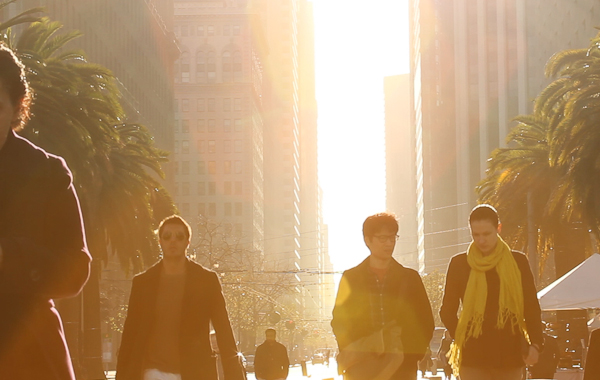
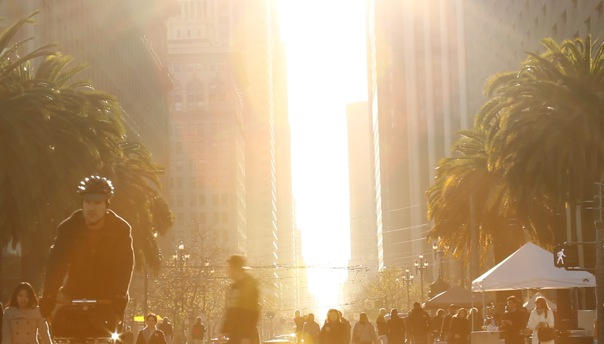
update copy and layout for about us

diff --git a/app/assets/stylesheets/about.css.scss b/app/assets/stylesheets/about.css.scss
@@ -1,19 +1,35 @@
 /* ABOUT */
 
 
+.about-intro {
+
+	h1 {
+		max-width: 720px;
+		text-shadow: 0 0 40px rgba(0, 0, 0, 0.15);
+	}
+
+	div {
+		@include span-columns(3.375);
+
+		p {
+			margin-top: 3rem;
+		}
+	}
+}
+
 .about .main-intro {
 	padding: 0 30px;
-	@include span-columns(8);
+	@include span-columns(7.5);
 
-	p {
-
+	h2 {
+		margin-top: 60px;
 	}
 }
 
 .aside .connect {
 	@include row();
 	border-left: 2px solid $highlight;
-	margin-top: 1.6rem;
+	margin-top: 3.8rem;
 
 	strong {
 		font-weight: normal;
@@ -44,8 +60,8 @@
 
 .about-data {
 	@include outer-container;
-	margin-top: 20px;
-	margin-bottom: 4.25rem;
+	margin-top: 120px;
+	margin-bottom: 7.25rem;
 	padding: 0 30px;
 
 	li {
@@ -56,6 +72,7 @@
 	h2 {
 		@include col-title;
 		margin-bottom: 0;
+		line-height: 2.5rem;
 	}
 
 	p {
@@ -65,20 +82,20 @@
 	.about-who,
 	.about-what,
 	.about-why {
-		width: 300px;
-		height: 190px;
+		width: 302px;
+		height: 172px;
 	}
 
 	.about-who {
-		@include retina-image(/assets/static/about-us-1, 300px 190px, jpg);
+		@include retina-image(/assets/static/about-us-1, 302px 172px, jpg);
 	}
 
 	.about-what {
-		@include retina-image(/assets/static/about-us-3, 300px 190px, jpg);
+		@include retina-image(/assets/static/about-us-2, 302px 172px, jpg);
 	}
 
 	.about-why {
-		@include retina-image(/assets/static/about-us-2, 300px 190px, jpg);
+		@include retina-image(/assets/static/about-us-3, 302px 172px, jpg);
 	}
 
 }

diff --git a/app/assets/stylesheets/connect.css.scss b/app/assets/stylesheets/connect.css.scss
@@ -1,7 +1,7 @@
 /* CONNECT */
 
 .opening {
-	@include retina-image(/assets/static/header, 751px 417px, jpg);
+	@include retina-image(/assets/static/about-header, 750px 417px, jpg);
 }
 
 .existing-networks {
